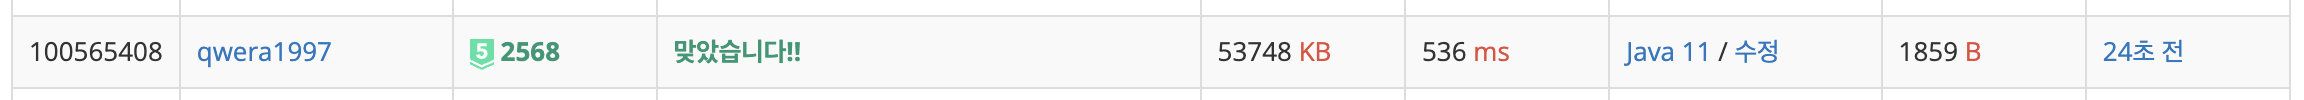
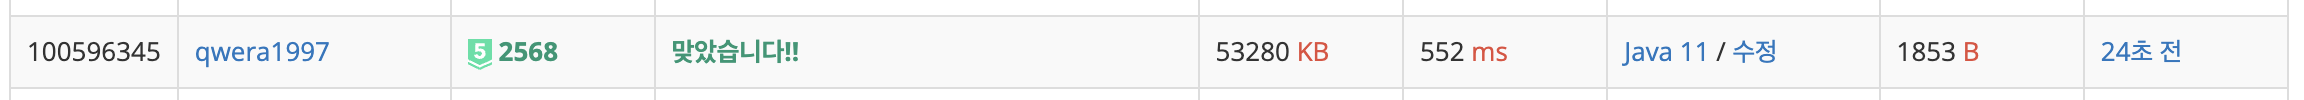
feat: 백준 2568 전깃줄 - 2

diff --git a/_posts/2025-11/2025-11-27-백준 2568 전깃줄 - 2.md b/_posts/2025-11/2025-11-27-백준 2568 전깃줄 - 2.md
@@ -51,7 +51,7 @@ public class Main {
         int[] dp = new int[1 + N];
         int len = 0;
 
-        int[] before = new int[N];
+        int[] prev = new int[N];
 
         for (int i = 0; i < N; i++) {
             int idx = lowerBound(dp, len, map[i][1]);
@@ -59,7 +59,7 @@ public class Main {
             dp[idx] = map[i][1];
             if (idx == len + 1) len++;
 
-            before[i] = idx;
+            prev[i] = idx;
         }
 
         sb.append(N - len).append('\n');
@@ -67,7 +67,7 @@ public class Main {
         Deque<Integer> stack = new ArrayDeque<>();
         int tmp = len;
         for (int i = N - 1; i >= 0; i--) {
-            if (before[i] == tmp) {
+            if (prev[i] == tmp) {
                 tmp--;
             } else {
                 stack.push(map[i][0]);
